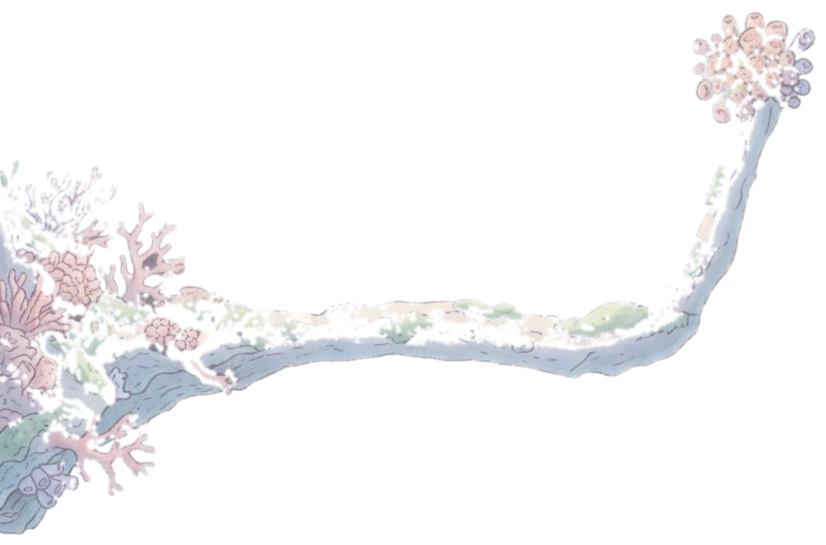
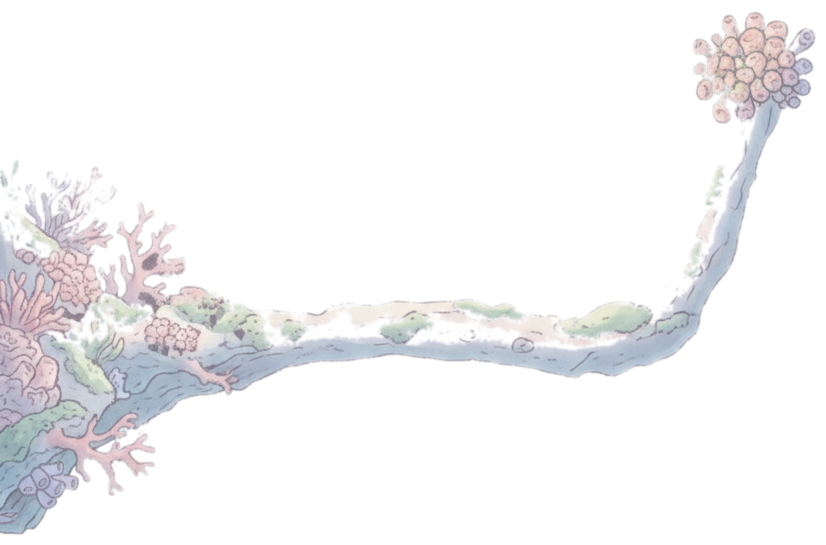
Reef obstacles: fix branch texture cleanup, shrink long branches, rotate boulder to lateral edge
- Re-clean branch_straight/hook/short with border-only transparency
  removal (the default interior-hole pass was eating legitimate pale
  watercolor highlights, same bug seen earlier with coral_branch).
- Add branchScale() so the three long branch variants render at 85%
  scale, leaving more passable room; branch_short stays as-is.
- Rotate the edge-touching boulder_rock 90 deg per side in lateralWall
  so its flat side sits against the world edge.
- Rewrite ReefCluster's rotated-hitbox math: Arcade StaticBody.refreshBody()
  repositions via sprite.getTopLeft() (which rotates a single point around
  the sprite center) without rotating width/height, so the previous
  swap-on-90-degrees approach didn't land on the right rectangle. Now
  rotate the fractional hitbox's corners directly and subtract that same
  getTopLeft-based base position, verified against a debug overlay through
  both an isolated probe and the real ReefClusterSpawner.

Claude-Session: https://claude.ai/code/session_01NECFQR9dVFqZkCEBdrXX6e

diff --git a/src/systems/ReefTemplates.ts b/src/systems/ReefTemplates.ts
@@ -50,6 +50,16 @@ function pickBranch(): string {
   return Phaser.Utils.Array.GetRandom(BRANCH_VARIANTS);
 }
 
+// Las ramas "largas" (todas menos branch_short) dejan menos hueco libre que
+// las demás piezas a igual `scale` nominal — pedido explícito del usuario:
+// "las que son largas que sea un poco más pequeño para que dé más espacio".
+// branch_short ya es compacta de por sí, se queda con la escala pedida tal cual.
+const LONG_BRANCH_KEYS = new Set(["reef_coral_branch", "reef_branch_straight", "reef_branch_hook"]);
+
+function branchScale(key: string, base: number): number {
+  return LONG_BRANCH_KEYS.has(key) ? base * 0.85 : base;
+}
+
 /**
  * 1) Diagonal desde la izquierda: la masa de obstáculo crece en diagonal
  * de abajo-izquierda a arriba-derecha, dejando todo el lado derecho
@@ -59,9 +69,17 @@ function pickBranch(): string {
  * pieza "branch" (ya diagonal de por sí) hace de columna vertebral.
  */
 function diagonalLeft(worldWidth: number, centerY: number): ReefClusterSpec {
+  const branchKey1 = pickBranch();
   const pieces: ReefPieceSpec[] = [
     piece({ key: "reef_boulder_rock", x: worldWidth * 0.12, y: centerY + 160, scale: 0.4, rotation: -0.02, role: "obstacle" }),
-    piece({ key: pickBranch(), x: worldWidth * 0.28, y: centerY - 40, scale: 0.5, rotation: -0.04, role: "obstacle" }),
+    piece({
+      key: branchKey1,
+      x: worldWidth * 0.28,
+      y: centerY - 40,
+      scale: branchScale(branchKey1, 0.5),
+      rotation: -0.04,
+      role: "obstacle",
+    }),
     // Decoración: crece pegada a los obstáculos, sin colisión.
     piece({ key: "decor_starfish", x: worldWidth * 0.19, y: centerY - 30, scale: 0.28, role: "decoration" }),
     piece({ key: "decor_pebble", x: worldWidth * 0.1, y: centerY + 200, scale: 0.32, role: "decoration" }),
@@ -88,9 +106,17 @@ function diagonalLeft(worldWidth: number, centerY: number): ReefClusterSpec {
  * CoinSpawner con sus grupos "arriesgados"). Ver brief, ejemplo 2.
  */
 function centerTwoPaths(worldWidth: number, centerY: number): ReefClusterSpec {
+  const branchKey1 = pickBranch();
   const pieces: ReefPieceSpec[] = [
     piece({ key: "reef_boulder_rock", x: worldWidth * 0.47, y: centerY + 50, scale: 0.42, rotation: -0.02, role: "obstacle" }),
-    piece({ key: pickBranch(), x: worldWidth * 0.55, y: centerY - 130, scale: 0.36, rotation: 0.08, role: "obstacle" }),
+    piece({
+      key: branchKey1,
+      x: worldWidth * 0.55,
+      y: centerY - 130,
+      scale: branchScale(branchKey1, 0.36),
+      rotation: 0.08,
+      role: "obstacle",
+    }),
     piece({ key: "decor_starfish", x: worldWidth * 0.37, y: centerY + 95, scale: 0.3, role: "decoration" }),
     piece({ key: "decor_shell", x: worldWidth * 0.64, y: centerY - 100, scale: 0.3, role: "decoration" }),
     piece({ key: "decor_pebble", x: worldWidth * 0.5, y: centerY + 200, scale: 0.3, role: "decoration" }),
@@ -124,6 +150,7 @@ function sCurveEdges(worldWidth: number, centerY: number): ReefClusterSpec {
   const topY = centerY - 170;
   const midY = centerY;
   const bottomY = centerY + 170;
+  const sCurveBranchKey = pickBranch();
 
   const pieces: ReefPieceSpec[] = [
     // Banda superior: entra por la izquierda.
@@ -132,7 +159,15 @@ function sCurveEdges(worldWidth: number, centerY: number): ReefClusterSpec {
 
     // Banda media: entra por la derecha — espejada (ver BRANCH_VARIANTS),
     // para que la parte con coral quede pegada al borde.
-    piece({ key: pickBranch(), x: worldWidth * 0.72, y: midY - 30, scale: 0.4, rotation: -0.1, flipX: true, role: "obstacle" }),
+    piece({
+      key: sCurveBranchKey,
+      x: worldWidth * 0.72,
+      y: midY - 30,
+      scale: branchScale(sCurveBranchKey, 0.4),
+      rotation: -0.1,
+      flipX: true,
+      role: "obstacle",
+    }),
     piece({ key: "decor_starfish", x: worldWidth * 0.8, y: midY - 100, scale: 0.3, role: "decoration" }),
 
     // Banda inferior: entra por la izquierda otra vez, con distinto
@@ -170,21 +205,32 @@ function lateralWall(worldWidth: number, centerY: number): ReefClusterSpec {
   // Convierte una posición relativa al borde (0 = pegado al borde, hacia
   // dentro conforme crece) a coordenada absoluta de mundo, según el lado.
   const fromEdge = (relX: number) => (side === "left" ? relX * worldWidth : worldWidth - relX * worldWidth);
+  const wallBranchKey = pickBranch();
 
   const pieces: ReefPieceSpec[] = [
     // La pieza más cercana al borde se centra casi en el borde mismo (y un
     // poco más allá, x negativa o > worldWidth es inofensivo: la cámara
     // nunca llega ahí) — el resto de la masa "sigue" fuera de pantalla.
-    piece({ key: "reef_boulder_rock", x: fromEdge(-0.02), y: centerY + 150, scale: 0.46, rotation: 0, role: "obstacle" }),
+    // Pedido explícito del usuario: girar la roca 90º según el lado para
+    // que su parte plana quede pegada al lateral (ver ReefCluster.ts para
+    // el ajuste de hitbox que acompaña a esta rotación).
+    piece({
+      key: "reef_boulder_rock",
+      x: fromEdge(-0.02),
+      y: centerY + 150,
+      scale: 0.46,
+      rotation: side === "left" ? Math.PI / 2 : -Math.PI / 2,
+      role: "obstacle",
+    }),
     // Pedido explícito del usuario: al salir por la derecha hay que
     // espejar la rama (flipX) para que la parte con coral quede pegada al
     // borde y la parte lisa apunte hacia el interior, igual que por la
     // izquierda sin espejar (ver BRANCH_VARIANTS para la convención).
     piece({
-      key: pickBranch(),
+      key: wallBranchKey,
       x: fromEdge(0.1),
       y: centerY - 60,
-      scale: 0.5,
+      scale: branchScale(wallBranchKey, 0.5),
       rotation: 0.02,
       flipX: side === "right",
       role: "obstacle",

diff --git a/src/entities/ReefCluster.ts b/src/entities/ReefCluster.ts
@@ -43,6 +43,74 @@ const HITBOX_FRACTION: Record<string, [number, number, number, number]> = {
   reef_branch_short: [0.0, 0.0, 0.95, 0.95],
 };
 
+/**
+ * Calcula el tamaño/offset de body que hace que un `StaticBody` (rectángulo
+ * SIN rotar) coincida con la silueta de un sprite YA GIRADO por `rotation`
+ * — pedido explícito del usuario: girar `boulder_rock` 90º según el lado
+ * para que su parte plana quede pegada al lateral.
+ *
+ * Ojo, esto NO es tan simple como "Phaser no rota el body": para un
+ * `StaticBody`, `refreshBody()` internamente llama a `sprite.getTopLeft()`,
+ * que SÍ tiene en cuenta la rotación — pero solo rota la POSICIÓN de la
+ * esquina superior-izquierda "de fábrica" (un único punto, girado alrededor
+ * del centro del sprite), sin rotar ni intercambiar el ancho/alto del
+ * rectángulo (que se quedan en `displayWidth/displayHeight`, siempre sin
+ * rotar). El resultado es un rectángulo desplazado a un punto girado pero
+ * con la forma sin girar — no coincide con la silueta real (confirmado con
+ * un probe: con `frac` de boulder_rock y 90º, el body por defecto salía
+ * centrado lejos del dibujo). Y `body.setOffset(x,y)` no coloca el body en
+ * `(x,y)` a secas: internamente hace `position -= offsetAnterior; position
+ * += offsetNuevo`, es decir, el offset se suma sobre esa posición base ya
+ * desplazada por `getTopLeft()`, no sobre la esquina sin rotar.
+ *
+ * Por eso aquí se calcula todo a mano: se giran los 4 vértices del recorte
+ * (`frac`) alrededor del centro para obtener su caja delimitadora (AABB)
+ * ya en coordenadas de mundo reales, y se le resta esa misma posición base
+ * de `getTopLeft()` (replicada aquí, girando el punto
+ * `(-displayWidth/2, -displayHeight/2)`) para obtener el offset que hay que
+ * pasarle a `setOffset` para que el resultado final caiga exactamente en el
+ * AABB deseado. Exacto para cualquier ángulo cuando el recorte ya es un
+ * rectángulo alineado a ejes (como estos), incluido el jitter de rotación
+ * de unos pocos grados que ya llevan casi todas las piezas.
+ */
+function rotatedFractionalBody(
+  tex: HTMLImageElement,
+  frac: [number, number, number, number],
+  rotation: number,
+  scale: number,
+): { w: number; h: number; offsetX: number; offsetY: number } {
+  const [fx0, fy0, fx1, fy1] = frac;
+  const dW = tex.width * scale;
+  const dH = tex.height * scale;
+  const cos = Math.cos(rotation);
+  const sin = Math.sin(rotation);
+  const rotate = (x: number, y: number): [number, number] => [x * cos - y * sin, x * sin + y * cos];
+
+  // AABB del recorte ya girado, en coordenadas de mundo centradas en el
+  // sprite (su pivote de rotación, el origen 0.5/0.5 por defecto).
+  const a = (fx0 - 0.5) * dW;
+  const b = (fx1 - 0.5) * dW;
+  const c = (fy0 - 0.5) * dH;
+  const d = (fy1 - 0.5) * dH;
+  const corners = [rotate(a, c), rotate(b, c), rotate(a, d), rotate(b, d)];
+  const xs = corners.map(([x]) => x);
+  const ys = corners.map(([, y]) => y);
+  const xmin = Math.min(...xs);
+  const ymin = Math.min(...ys);
+
+  // Posición base que `refreshBody()` ya deja en el body (su
+  // `getTopLeft()`, ver comentario arriba): la esquina sin rotar
+  // (-dW/2,-dH/2) girada alrededor del centro.
+  const [baseX, baseY] = rotate(-0.5 * dW, -0.5 * dH);
+
+  return {
+    w: Math.max(...xs) - xmin,
+    h: Math.max(...ys) - ymin,
+    offsetX: xmin - baseX,
+    offsetY: ymin - baseY,
+  };
+}
+
 export interface ReefPieceSpec {
   key: string;
   x: number;
@@ -86,20 +154,17 @@ export class ReefCluster {
 
         const frac = HITBOX_FRACTION[piece.key];
         if (frac) {
-          const tex = scene.textures.get(piece.key).getSourceImage();
-          const [fx0, fy0, fx1, fy1] = frac;
           // Phaser NO escala el tamaño/offset del body con el scale del
           // sprite (confirmado con un probe en juego: un body creado con
           // valores en píxeles nativos se queda en esos píxeles tal cual,
           // sin multiplicar por setScale) — hay que aplicar piece.scale a
           // mano aquí, si no la hitbox queda mucho más grande que el
           // dibujo visible (mismo bug que tenían Jellyfish/Urchin/Shark/
-          // Squid/BigFish, arreglado en el mismo cambio).
-          const w = tex.width * (fx1 - fx0) * piece.scale;
-          const h = tex.height * (fy1 - fy0) * piece.scale;
-          (sprite.body as Phaser.Physics.Arcade.StaticBody)
-            .setSize(w, h)
-            .setOffset(tex.width * fx0 * piece.scale, tex.height * fy0 * piece.scale);
+          // Squid/BigFish, arreglado en el mismo cambio). Tampoco rota el
+          // body con sprite.rotation, ver rotatedFractionalBody arriba.
+          const tex = scene.textures.get(piece.key).getSourceImage() as HTMLImageElement;
+          const { w, h, offsetX, offsetY } = rotatedFractionalBody(tex, frac, piece.rotation ?? 0, piece.scale);
+          (sprite.body as Phaser.Physics.Arcade.StaticBody).setSize(w, h).setOffset(offsetX, offsetY);
         }
 
         this.obstacleSprites.push(sprite);

diff --git a/PROGRESS.md b/PROGRESS.md
@@ -124,6 +124,52 @@ funciona **hoy**, verificado en el código — no lo que el diseño aspira a ten
   por fecha) antes de generar nada — si no hay archivo, pedirle que las
   suba al repo (p.ej. a `/reference`) en vez de generar de memoria/
   descripción, que ya falló dos veces por este motivo.
+  **5ª tanda, tras revisión de la 4ª por el usuario** (4 pedidos en un solo
+  mensaje):
+  1. "La textura la quitaste un poco mal": `fix_transparency.py` con su
+     `interior_hole_mask` por defecto volvió a comerse textura clara
+     legítima (bandas de brillo pastel) en las 3 variantes de rama nuevas
+     — mismo bug ya visto una vez con `coral_branch`. Rehechas las 3
+     (`branch_straight`/`branch_hook`/`branch_short`) limpiando solo el
+     borde (`border_connected_mask`, sin tocar el interior) — verificado
+     sin fantasmas ni textura perdida contra el fondo real del juego.
+     **Lección para el futuro**: con este estilo de acuarela pastel, la
+     limpieza de transparencia por defecto NO es segura — usar siempre
+     solo borde salvo que un hueco interior concreto y verificado lo
+     necesite.
+  2. "El espejo se rompe con las otras": verificado con una rejilla
+     Playwright que compara las 4 variantes lado a lado (sin espejo vs.
+     `flipX`, la pieza pegada a una línea de "borde" simulada) — con las
+     texturas ya limpias del punto 1, las 4 quedan correctamente
+     espejadas (coral pegado al borde en ambos lados). La sensación de
+     "roto" venía de las texturas dañadas del punto 1, no de la lógica de
+     `flipX` en sí — no hizo falta ningún cambio de código adicional.
+  3. "Las ramas largas más pequeñas": añadido `branchScale()` en
+     `ReefTemplates.ts` — las 3 variantes largas (`reef_coral_branch`,
+     `reef_branch_straight`, `reef_branch_hook`) se colocan al 85% de la
+     escala pedida; `reef_branch_short` (ya compacta) se queda igual.
+  4. "Girar `boulder_rock` 90º según el lado, para que la parte plana
+     quede pegada al lateral": añadida rotación (`±90°` según el lado) en
+     la pieza de roca pegada al borde de `lateralWall`. Esto exigió
+     arreglar cómo `ReefCluster.ts` calcula la hitbox de piezas giradas:
+     un `StaticBody` de Arcade Physics NO gira su rectángulo con
+     `sprite.rotation`, y además `refreshBody()` deja el body en una
+     posición ya desplazada (vía `sprite.getTopLeft()`, que sí tiene en
+     cuenta la rotación para un único punto, pero sin girar ni
+     intercambiar ancho/alto) — un primer intento de "intercambiar
+     ancho/alto si la rotación es ~90°" (sin tener esto en cuenta)
+     quedaba con la hitbox muy lejos del dibujo real. Arreglado con
+     `rotatedFractionalBody()`: gira a mano los 4 vértices del recorte
+     alrededor del centro del sprite para obtener su caja delimitadora en
+     coordenadas de mundo, y le resta la posición base que `refreshBody()`
+     ya dejó puesta, para que el offset final caiga exacto. Verificado con
+     un probe numérico + captura (rectángulo de debug dibujado con
+     `body.x/y/width/height` encima del sprite real, para cualquier
+     ángulo) tanto de forma aislada como a través del spawner real
+     (`ReefClusterSpawner`) — coincide con la silueta girada en ambos
+     lados.
+  Playtest automatizado (zigzag simple) sigue pasando sin golpes tras
+  estos 4 cambios.
 - Se abandonó la idea de un fondo de escena pintado como imagen única
   (se había generado un primer ejemplo con Gemini, nunca integrado) — el
   usuario confirmó explícitamente que quiere mantener el fondo actual
